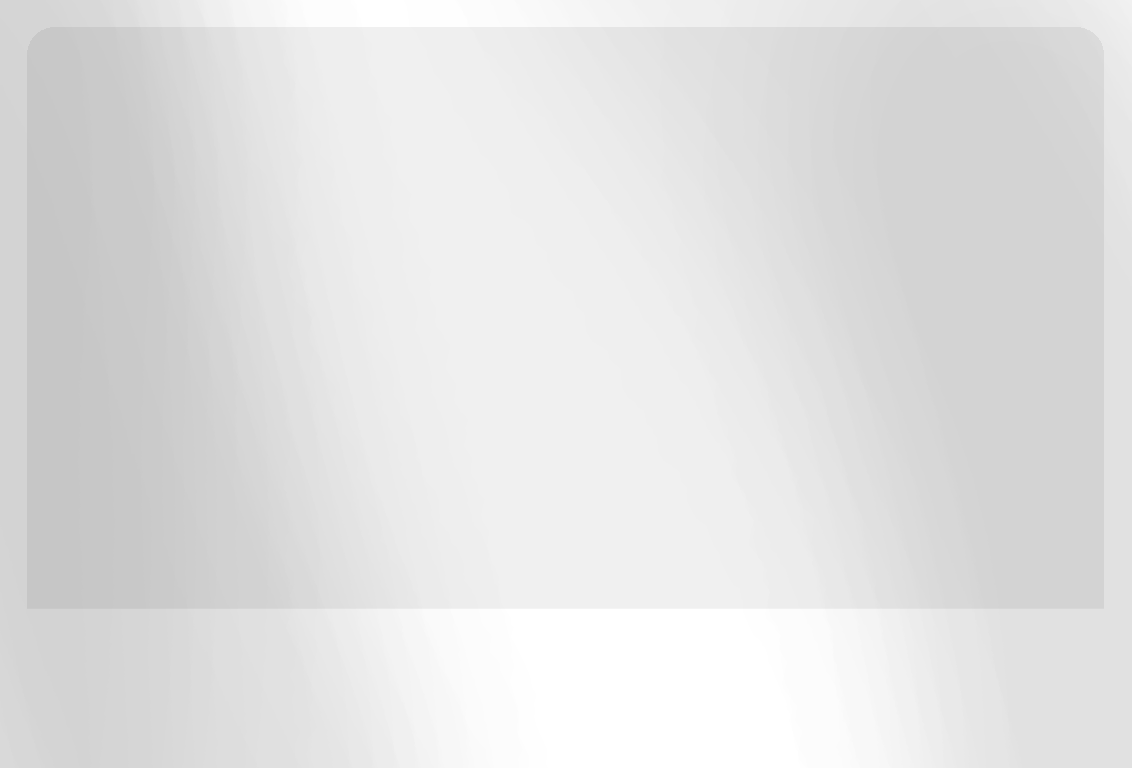
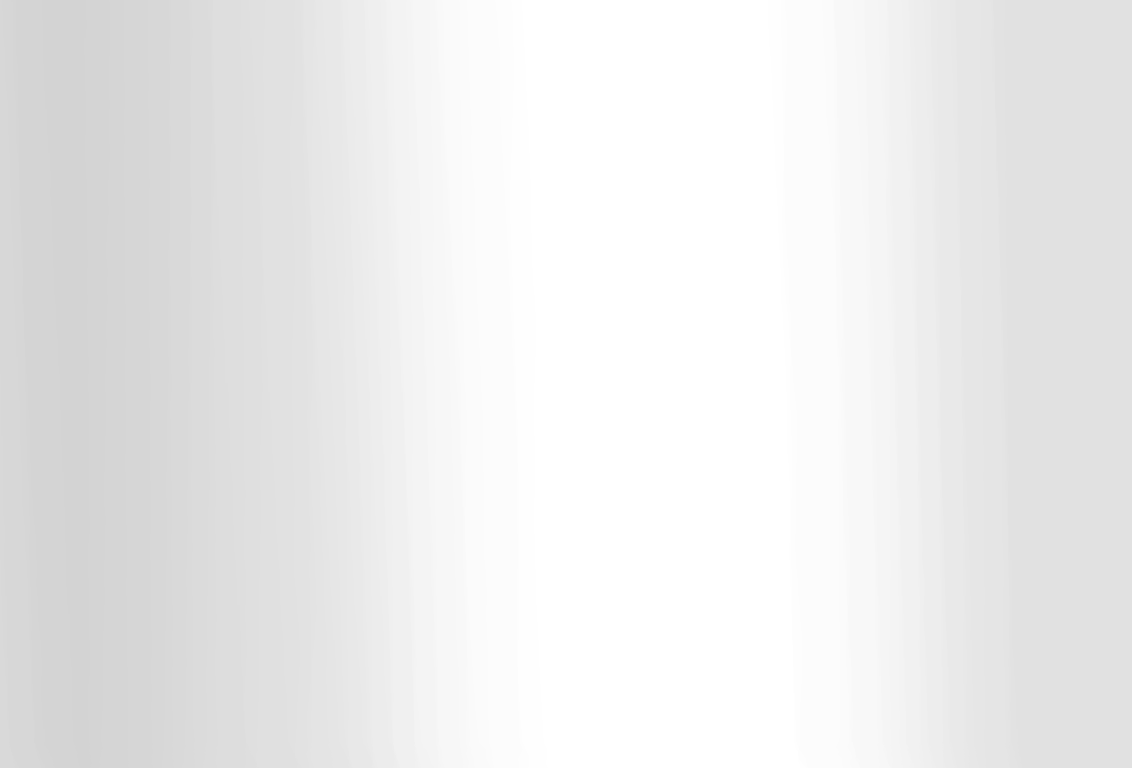
Fixed modals bug and updated cards. Changed color library.

Changed region(s): [[0.5256, 0.0312, 0.8348, 0.625], [0.2473, 0.0, 0.2783, 0.0312]]

diff --git a/resources/color-thief/color-thief.min.js b/resources/color-thief/color-thief.min.js
@@ -1,0 +1,30 @@
+/*
+ * Color Thief v2.0
+ * by Lokesh Dhakar - http://www.lokeshdhakar.com
+ *
+ * Thanks
+ * ------
+ * Nick Rabinowitz - For creating quantize.js.
+ * John Schulz - For clean up and optimization. @JFSIII
+ * Nathan Spady - For adding drag and drop support to the demo page.
+ *
+ * License
+ * -------
+ * Copyright 2011, 2015 Lokesh Dhakar
+ * Released under the MIT license
+ * https://raw.githubusercontent.com/lokesh/color-thief/master/LICENSE
+ *
+ * @license
+ */
+var CanvasImage=function(a){this.canvas=document.createElement("canvas"),this.context=this.canvas.getContext("2d"),document.body.appendChild(this.canvas),this.width=this.canvas.width=a.width,this.height=this.canvas.height=a.height,this.context.drawImage(a,0,0,this.width,this.height)};CanvasImage.prototype.clear=function(){this.context.clearRect(0,0,this.width,this.height)},CanvasImage.prototype.update=function(a){this.context.putImageData(a,0,0)},CanvasImage.prototype.getPixelCount=function(){return this.width*this.height},CanvasImage.prototype.getImageData=function(){return this.context.getImageData(0,0,this.width,this.height)},CanvasImage.prototype.removeCanvas=function(){this.canvas.parentNode.removeChild(this.canvas)};var ColorThief=function(){};/*!
+ * quantize.js Copyright 2008 Nick Rabinowitz.
+ * Licensed under the MIT license: http://www.opensource.org/licenses/mit-license.php
+ * @license
+ */
+/*!
+ * Block below copied from Protovis: http://mbostock.github.com/protovis/
+ * Copyright 2010 Stanford Visualization Group
+ * Licensed under the BSD License: http://www.opensource.org/licenses/bsd-license.php
+ * @license
+ */
+if(ColorThief.prototype.getColor=function(a,b){var c=this.getPalette(a,5,b),d=c[0];return d},ColorThief.prototype.getPalette=function(a,b,c){"undefined"==typeof b&&(b=10),("undefined"==typeof c||c<1)&&(c=10);for(var d,e,f,g,h,i=new CanvasImage(a),j=i.getImageData(),k=j.data,l=i.getPixelCount(),m=[],n=0;n<l;n+=c)d=4*n,e=k[d+0],f=k[d+1],g=k[d+2],h=k[d+3],h>=125&&(e>250&&f>250&&g>250||m.push([e,f,g]));var o=MMCQ.quantize(m,b),p=o?o.palette():null;return i.removeCanvas(),p},!pv)var pv={map:function(a,b){var c={};return b?a.map(function(a,d){return c.index=d,b.call(c,a)}):a.slice()},naturalOrder:function(a,b){return a<b?-1:a>b?1:0},sum:function(a,b){var c={};return a.reduce(b?function(a,d,e){return c.index=e,a+b.call(c,d)}:function(a,b){return a+b},0)},max:function(a,b){return Math.max.apply(null,b?pv.map(a,b):a)}};var MMCQ=function(){function a(a,b,c){return(a<<2*i)+(b<<i)+c}function b(a){function b(){c.sort(a),d=!0}var c=[],d=!1;return{push:function(a){c.push(a),d=!1},peek:function(a){return d||b(),void 0===a&&(a=c.length-1),c[a]},pop:function(){return d||b(),c.pop()},size:function(){return c.length},map:function(a){return c.map(a)},debug:function(){return d||b(),c}}}function c(a,b,c,d,e,f,g){var h=this;h.r1=a,h.r2=b,h.g1=c,h.g2=d,h.b1=e,h.b2=f,h.histo=g}function d(){this.vboxes=new b(function(a,b){return pv.naturalOrder(a.vbox.count()*a.vbox.volume(),b.vbox.count()*b.vbox.volume())})}function e(b){var c,d,e,f,g=1<<3*i,h=new Array(g);return b.forEach(function(b){d=b[0]>>j,e=b[1]>>j,f=b[2]>>j,c=a(d,e,f),h[c]=(h[c]||0)+1}),h}function f(a,b){var d,e,f,g=1e6,h=0,i=1e6,k=0,l=1e6,m=0;return a.forEach(function(a){d=a[0]>>j,e=a[1]>>j,f=a[2]>>j,d<g?g=d:d>h&&(h=d),e<i?i=e:e>k&&(k=e),f<l?l=f:f>m&&(m=f)}),new c(g,h,i,k,l,m,b)}function g(b,c){function d(a){var b,d,e,f,g,h=a+"1",j=a+"2",k=0;for(i=c[h];i<=c[j];i++)if(o[i]>n/2){for(e=c.copy(),f=c.copy(),b=i-c[h],d=c[j]-i,g=b<=d?Math.min(c[j]-1,~~(i+d/2)):Math.max(c[h],~~(i-1-b/2));!o[g];)g++;for(k=p[g];!k&&o[g-1];)k=p[--g];return e[j]=g,f[h]=e[j]+1,[e,f]}}if(c.count()){var e=c.r2-c.r1+1,f=c.g2-c.g1+1,g=c.b2-c.b1+1,h=pv.max([e,f,g]);if(1==c.count())return[c.copy()];var i,j,k,l,m,n=0,o=[],p=[];if(h==e)for(i=c.r1;i<=c.r2;i++){for(l=0,j=c.g1;j<=c.g2;j++)for(k=c.b1;k<=c.b2;k++)m=a(i,j,k),l+=b[m]||0;n+=l,o[i]=n}else if(h==f)for(i=c.g1;i<=c.g2;i++){for(l=0,j=c.r1;j<=c.r2;j++)for(k=c.b1;k<=c.b2;k++)m=a(j,i,k),l+=b[m]||0;n+=l,o[i]=n}else for(i=c.b1;i<=c.b2;i++){for(l=0,j=c.r1;j<=c.r2;j++)for(k=c.g1;k<=c.g2;k++)m=a(j,k,i),l+=b[m]||0;n+=l,o[i]=n}return o.forEach(function(a,b){p[b]=n-a}),d(h==e?"r":h==f?"g":"b")}}function h(a,c){function h(a,b){for(var c,d=1,e=0;e<k;)if(c=a.pop(),c.count()){var f=g(i,c),h=f[0],j=f[1];if(!h)return;if(a.push(h),j&&(a.push(j),d++),d>=b)return;if(e++>k)return}else a.push(c),e++}if(!a.length||c<2||c>256)return!1;var i=e(a),j=0;i.forEach(function(){j++});var m=f(a,i),n=new b(function(a,b){return pv.naturalOrder(a.count(),b.count())});n.push(m),h(n,l*c);for(var o=new b(function(a,b){return pv.naturalOrder(a.count()*a.volume(),b.count()*b.volume())});n.size();)o.push(n.pop());h(o,c-o.size());for(var p=new d;o.size();)p.push(o.pop());return p}var i=5,j=8-i,k=1e3,l=.75;return c.prototype={volume:function(a){var b=this;return b._volume&&!a||(b._volume=(b.r2-b.r1+1)*(b.g2-b.g1+1)*(b.b2-b.b1+1)),b._volume},count:function(b){var c=this,d=c.histo;if(!c._count_set||b){var e,f,g,h=0;for(e=c.r1;e<=c.r2;e++)for(f=c.g1;f<=c.g2;f++)for(g=c.b1;g<=c.b2;g++)index=a(e,f,g),h+=d[index]||0;c._count=h,c._count_set=!0}return c._count},copy:function(){var a=this;return new c(a.r1,a.r2,a.g1,a.g2,a.b1,a.b2,a.histo)},avg:function(b){var c=this,d=c.histo;if(!c._avg||b){var e,f,g,h,j,k=0,l=1<<8-i,m=0,n=0,o=0;for(f=c.r1;f<=c.r2;f++)for(g=c.g1;g<=c.g2;g++)for(h=c.b1;h<=c.b2;h++)j=a(f,g,h),e=d[j]||0,k+=e,m+=e*(f+.5)*l,n+=e*(g+.5)*l,o+=e*(h+.5)*l;k?c._avg=[~~(m/k),~~(n/k),~~(o/k)]:c._avg=[~~(l*(c.r1+c.r2+1)/2),~~(l*(c.g1+c.g2+1)/2),~~(l*(c.b1+c.b2+1)/2)]}return c._avg},contains:function(a){var b=this,c=a[0]>>j;return gval=a[1]>>j,bval=a[2]>>j,c>=b.r1&&c<=b.r2&&gval>=b.g1&&gval<=b.g2&&bval>=b.b1&&bval<=b.b2}},d.prototype={push:function(a){this.vboxes.push({vbox:a,color:a.avg()})},palette:function(){return this.vboxes.map(function(a){return a.color})},size:function(){return this.vboxes.size()},map:function(a){for(var b=this.vboxes,c=0;c<b.size();c++)if(b.peek(c).vbox.contains(a))return b.peek(c).color;return this.nearest(a)},nearest:function(a){for(var b,c,d,e=this.vboxes,f=0;f<e.size();f++)c=Math.sqrt(Math.pow(a[0]-e.peek(f).color[0],2)+Math.pow(a[1]-e.peek(f).color[1],2)+Math.pow(a[2]-e.peek(f).color[2],2)),(c<b||void 0===b)&&(b=c,d=e.peek(f).color);return d},forcebw:function(){var a=this.vboxes;a.sort(function(a,b){return pv.naturalOrder(pv.sum(a.color),pv.sum(b.color))});var b=a[0].color;b[0]<5&&b[1]<5&&b[2]<5&&(a[0].color=[0,0,0]);var c=a.length-1,d=a[c].color;d[0]>251&&d[1]>251&&d[2]>251&&(a[c].color=[255,255,255])}},{quantize:h}}();

diff --git a/script.js b/script.js
@@ -21,6 +21,14 @@ var view = (function($, undefined){
 		$("#footerContacts").hide();
 	};
 
+	var lightColor = function(amount,originalColor){
+		var newColor = [];
+		for(var i=0; i<originalColor.length; i++){
+			currentComponent = (1 - amount)*originalColor[i] + amount*255;
+			newColor[i] = currentComponent; 
+		}
+		return newColor;
+	}
 
 	var createCards = function(container,dataPath)
 	{
@@ -30,9 +38,12 @@ var view = (function($, undefined){
 			container.append(currRow);
 			$.each( data, function( key, val ) {
 				var logoPath = val.logoPath;
-				if(logoPath==undefined){
+				var noLogo = (logoPath==undefined);
+				if(noLogo){
 					logoPath = "resources/images/portfolio/placeholder.png";
 				}
+
+
 				var HTMLString = `
 						<div class="col-md-4">
 							<div class="card">
@@ -43,15 +54,38 @@ var view = (function($, undefined){
 					`;
 
 				var domElem = $(HTMLString);
-				domElem.find(".card-image").on("click",function(){
-					console.log("clicked");
+				
+
+
+				currRow.append(domElem);
+
+				var domElemImages = domElem.find(".card-image");
+				var domElemImage = domElemImages[0];
+
+
+				domElemImages.on("click",function(){
 					view.createPopup(val.title,val.videoPath,val.descriptionHTML,val.references);
 				});
-				currRow.append(domElem);
+
+				if(noLogo){
+					return;
+				}
+				domElemImages.on("load",function(){
+					console.log(domElemImage)
+					//get predominant image color
+					var colorThief = new ColorThief();
+					var imageColor = colorThief.getColor(domElemImage);
+					console.log(imageColor);
+					//lighten image color by giving transparency
+					domElem.find(".card").css("border-color", "rgb("+lightColor(0.85,imageColor)+")" );
+					domElem.find(".card").css("background-color", "rgb("+lightColor(0.85,imageColor)+")" );
+				});
+
 				id++;
 			});
 		});
 	};
+
 
 	var createPopup = function(title,videoPath,desc,references)
 	{
@@ -101,6 +135,11 @@ var view = (function($, undefined){
 		}
 
 		poppup.modal();
+
+		//make it self-destruct
+		poppup.on('hide.bs.modal', function () {
+		    poppup.remove();
+		});
 	};
 	exportedData.createPopup = createPopup;
 
@@ -149,19 +188,7 @@ var view = (function($, undefined){
 			}
 		});
 
-		var cards = $(".card");
-		for(var i=0; i < cards.length; i++){
-			var currCard = $(cards[i]);
-			var currImage = currCard.find(".card-image")[0];
-			
-			//get predominant image color
-			var imageColor = (new Vibrant(currImage)).VibrantSwatch;
-			//checking if color could be found in the palette
-			if(imageColor!=undefined){
-				//lighten image color by giving transparency
-				currCard.css("background-color", imageColor.getHex()+"33");
-			}
-		}
+		
 
 		$("#expandFooterTrigger").click(function(){
 			var expandDuration = 500;

diff --git a/index.html b/index.html
@@ -147,14 +147,15 @@
 	<!-- give some padding to the page -->
 	<div style="padding: 5%;"></div>
 
-	<!-- Bootstrap core JavaScript
-	================================================== -->
-	<!-- Placed at the end of the document so the pages load faster -->
-	<script src="resources/jquery-3.1.0.js"></script>  
-	<script src="resources/vibrant/Vibrant.min.js"></script>  
-	<script src="resources/bootstrap/js/bootstrap.min.js"></script>
-	<script src="script.js"></script>
+	
 
 
 </body>
+
+<!-- Placed at the end of the document so the pages load faster -->  
+<script src="resources/jquery-3.1.0.js"></script>  
+<script src="resources/bootstrap/js/bootstrap.min.js"></script>
+<script src="resources/color-thief/color-thief.min.js"></script>
+<script src="script.js"></script>
+
 </html>

diff --git a/cover.css b/cover.css
@@ -226,10 +226,12 @@ h2{
   margin: 2.5%;
   box-shadow: 1em 1em 1em rgba(50,50,50,1);
 
-  border-style: none;
-  border-radius: 1em;
+  border-style: outset;
+  border-radius: 3em;
+  border-width: thick;
 
-  border-color: rgba(50,50,50,1);
+  border-color: white;
+  background-color: white;
 
   background-image: url("resources/images/cardSkin.png");
   background-size: 100% 100%;
